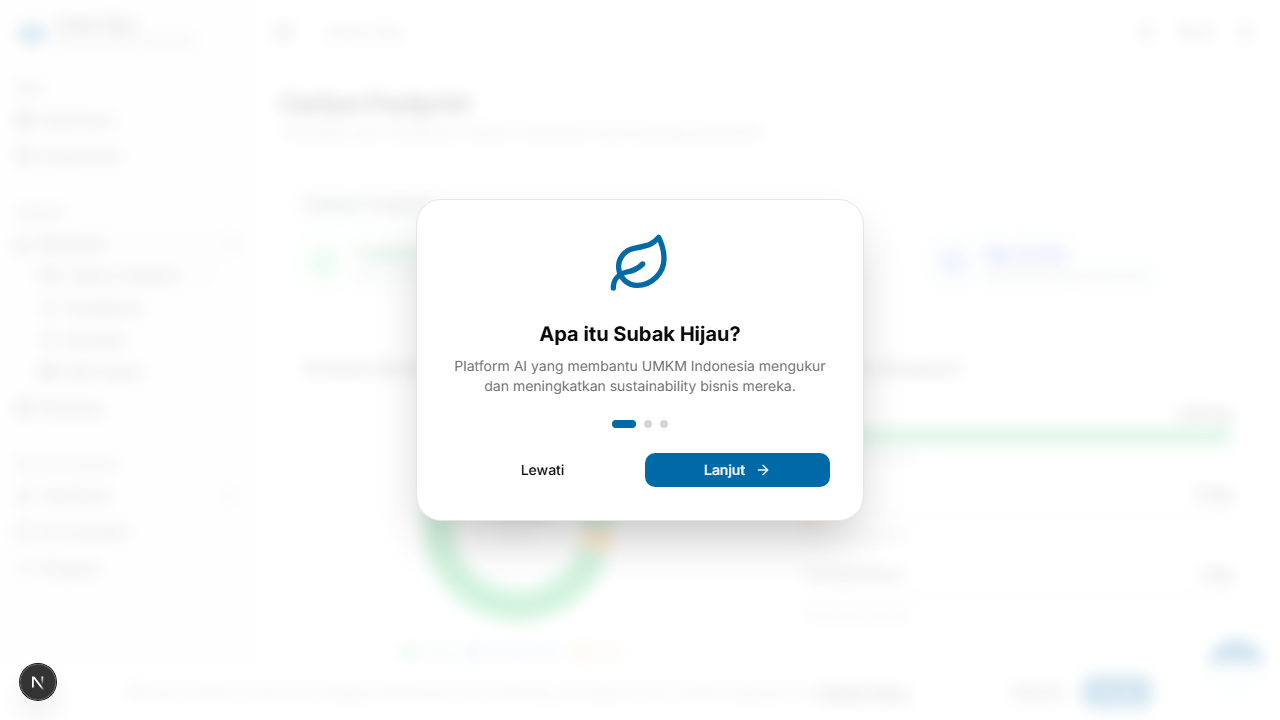
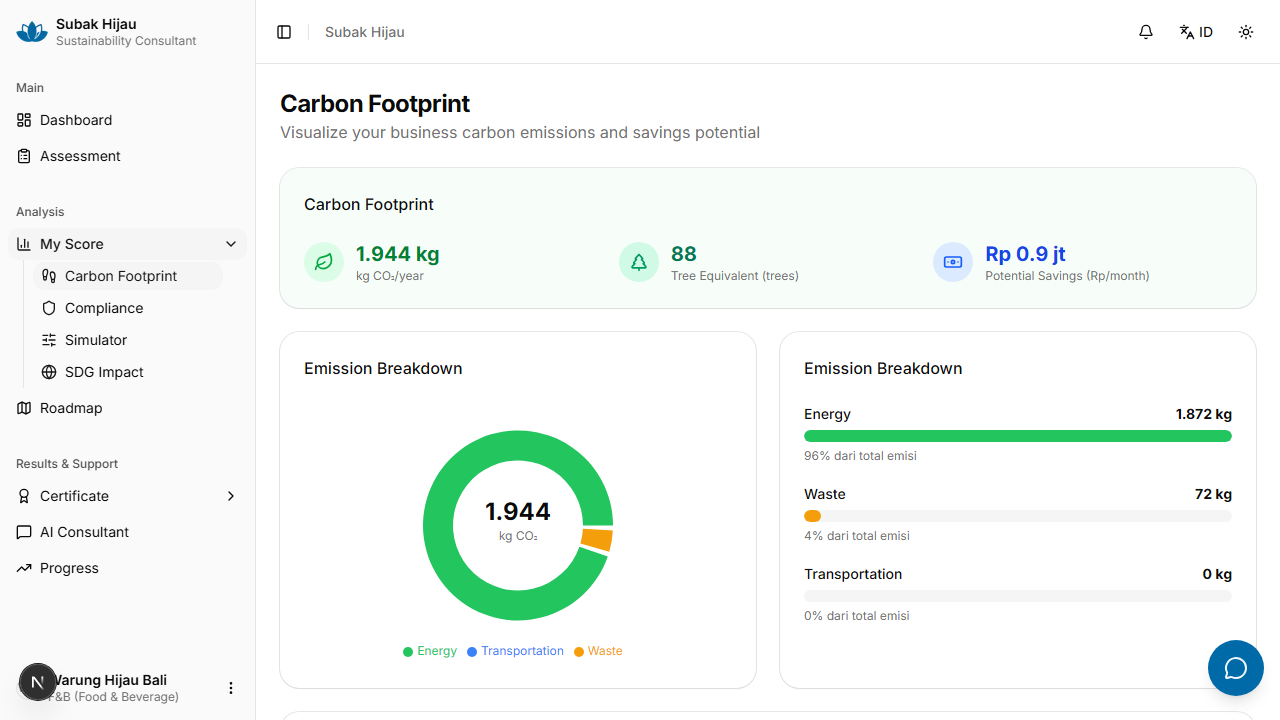
fix: dismiss overlays in screenshot script for clean captures
Set correct localStorage keys before capture to prevent cookie consent
banner and onboarding carousel from blocking screenshot content.

diff --git a/scripts/capture-screenshots.ts b/scripts/capture-screenshots.ts
@@ -23,6 +23,13 @@ test.describe("Public pages", () => {
   test("capture landing page", async ({ page }) => {
     await page.goto(`${BASE_URL}/`)
     await page.waitForLoadState("networkidle")
+
+    // Dismiss cookie consent banner
+    await page.evaluate(() =>
+      localStorage.setItem("subakhijau-cookie-consent", "accepted")
+    )
+    await page.reload()
+    await page.waitForLoadState("networkidle")
     await page.waitForTimeout(1500)
 
     await page.screenshot({
@@ -39,6 +46,14 @@ test.describe("Authenticated pages", () => {
   )
 
   test.beforeEach(async ({ page }) => {
+    // Pre-set localStorage to dismiss cookie consent and onboarding tour
+    await page.goto(BASE_URL)
+    await page.evaluate(() => {
+      localStorage.setItem("subakhijau-tour-completed", "true")
+      localStorage.setItem("subakhijau-onboarding-carousel-done", "true")
+      localStorage.setItem("subakhijau-cookie-consent", "accepted")
+    })
+
     // Navigate to login page
     await page.goto(`${BASE_URL}/login`)
     await page.waitForLoadState("networkidle")
